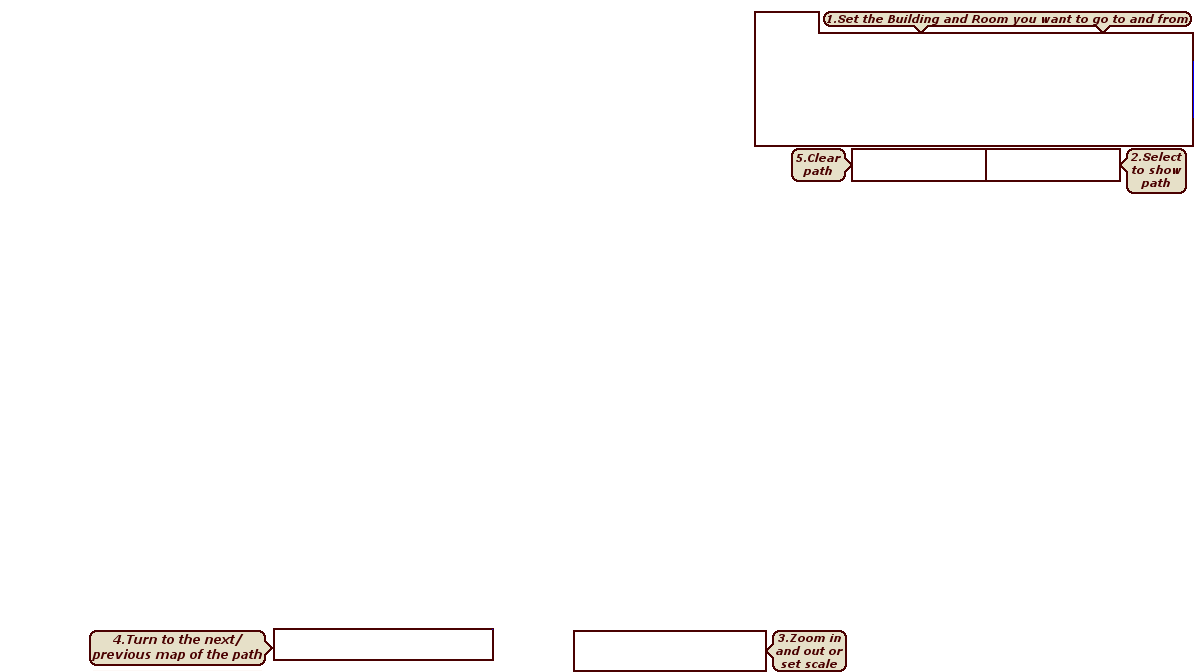
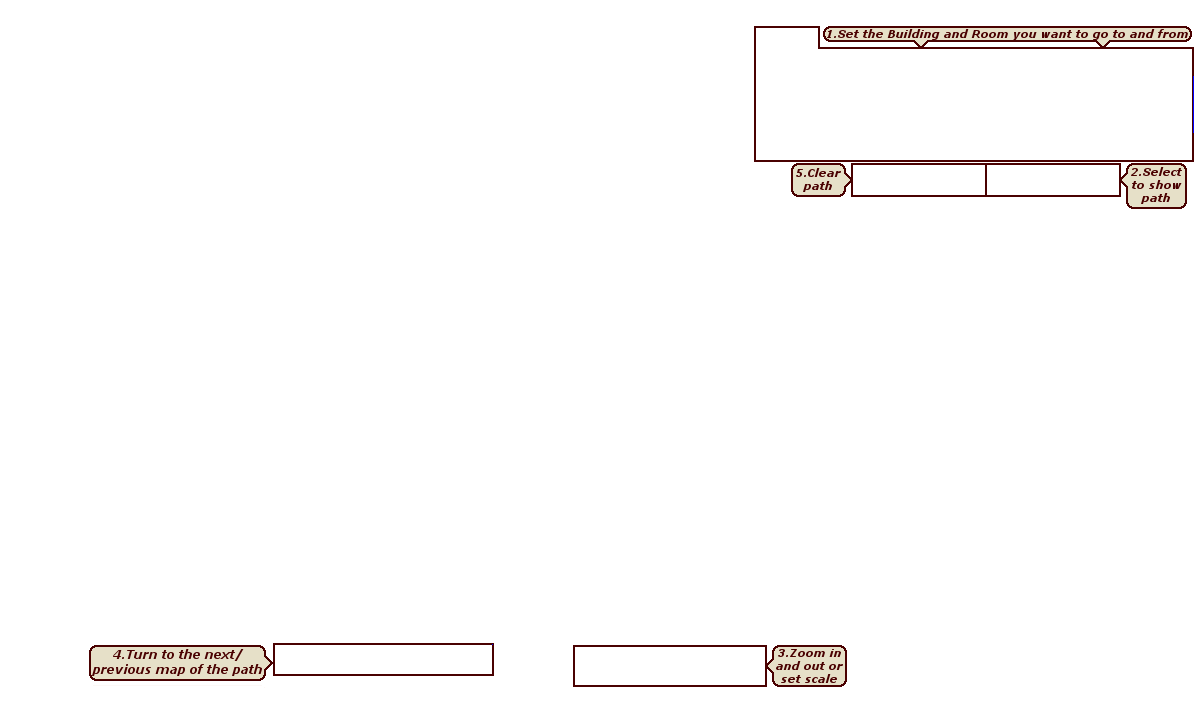
Update Tutorial jlabel

diff --git a/GetThere/src/EndUserGUI.java b/GetThere/src/EndUserGUI.java
@@ -278,7 +278,7 @@ public class EndUserGUI extends JPanel implements ActionListener{
 		uiPanel.setBackground(beige);
 		tutView = new JLabel("",JLabel.CENTER);    
 		tutView.setLocation(0, 0);
-		tutView.setSize(1194,672);
+		tutView.setSize(1194,702);
 		uiPanel.add(tutView);
 
 		mapPanel = new ImagePanel(this);
